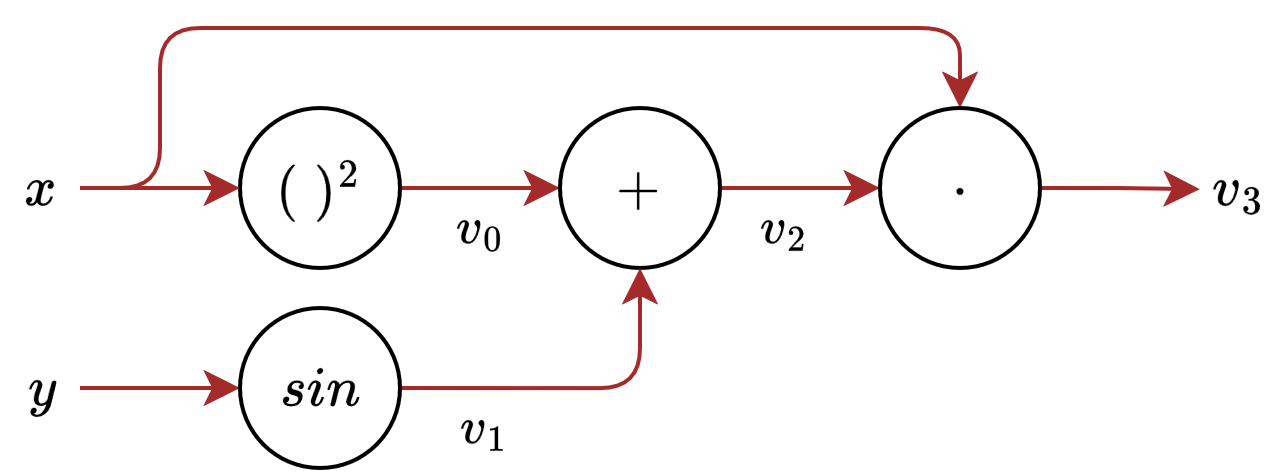
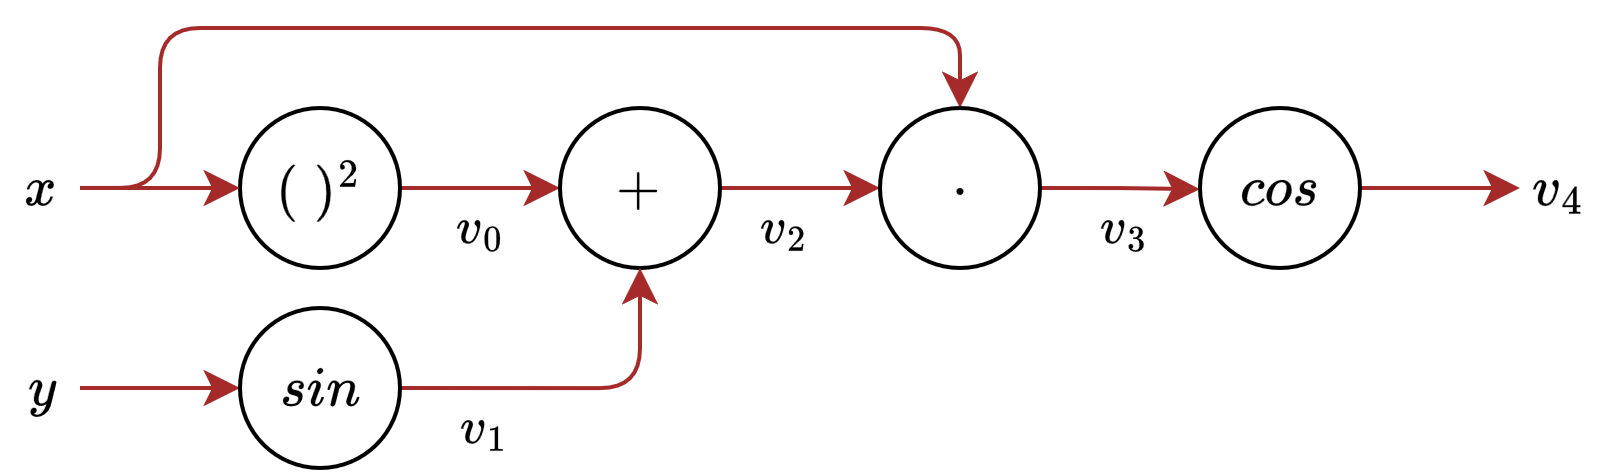
WIP 02

diff --git a/content/posts/02.html b/content/posts/02.html
@@ -399,12 +399,37 @@ print(f"df_dx({x.value}) = {x.grad}")
     though that I haven't talked about until now. In our example, all operations
     were sequential in nature, but what happens when, for example, we have
     multiple inputs? Consider for example this slightly more complex function
-    \(f(x, y) = (x^2 + \sin(y)) \cdot x\) and its corresponding computational graph
+    \(f(x, y) = \cos([x^2 + \sin(y)] \cdot x)\) and its corresponding computational graph
 </p>
 
 <p></p>
 <img src="/img/02_computational_graph_03.png" style="padding: 2em;"/>
 <p></p>
+
+<p>
+    When we try to apply the chain rule to this expression in order to
+    differentiate with respect to the input \(x\), we can immediately see that
+    it is possible to reach it from two different paths along the graph. This
+    leads to two different expansions of the chain rule.
+</p>
+
+\[
+    \frac{\partial v_4}{\partial v_3}
+    \frac{\partial v_3}{\partial x}
+    \quad
+    \text{or}
+    \quad
+    \frac{\partial v_4}{\partial v_3}
+    \frac{\partial v_3}{\partial v_2}
+    \frac{\partial v_2}{\partial v_0}
+    \frac{\partial v_0}{\partial x}
+\]
+
+<p>
+    To account for this situations, it is sufficient to <em>sum</em> the
+    gradients corresponding to the different paths. In fact, the chain rule
+    is in reality the following
+</p>
 
 <h3>References</h3>
 <ul>
